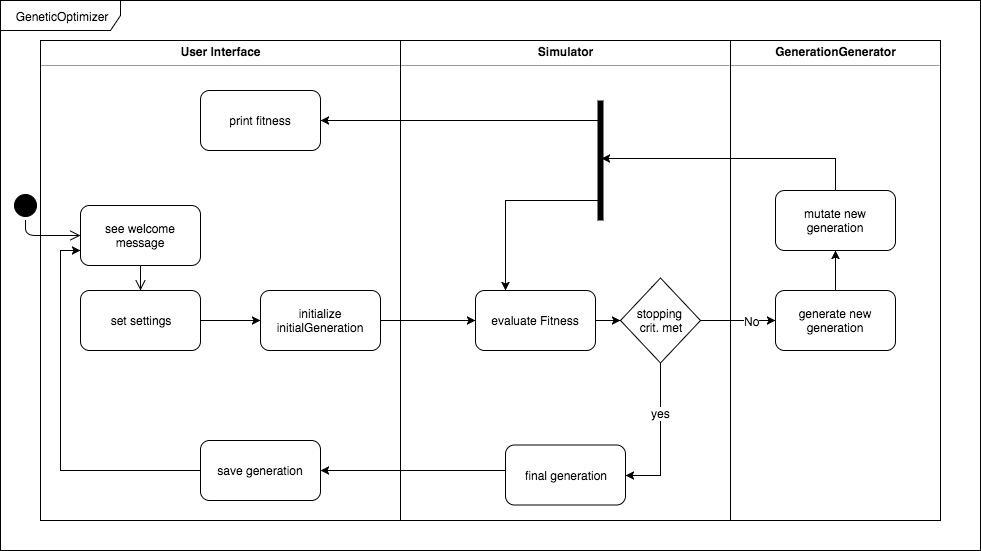
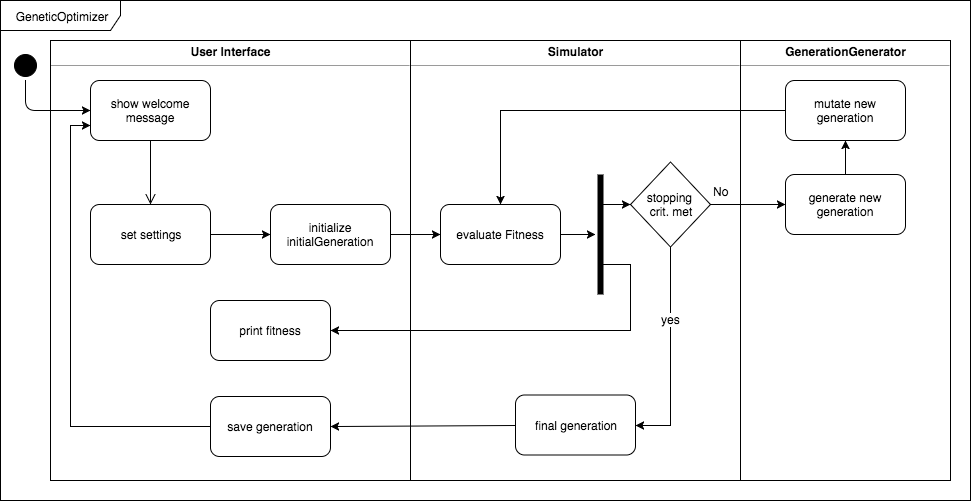
some architecture

diff --git a/report/softwareArchitecture/softwareArchitecture.tex b/report/softwareArchitecture/softwareArchitecture.tex
@@ -5,7 +5,11 @@
 3. Use your design methodology found in 1. to describe a SysML/UML model of your system in terms of structure and behavior. Make a suggestion for alternative HW/SW architectures. Decide on which parts of the functionality should be mapped to hardware components and software processes.
 \end{framed}
 
-The overall structure of the system can be seen in the BDD in figure \ref{fig:bdd}. Here it can be seen, that the system should consist of three parts: \emph{User Interface}, \emph{Generation Generator}, and \emph{Simulator}. Each of the blocks has its own responsibility. \emph{User Interface} is responsible for getting the input from and to the user, e.g. the start generation and the final generation and fitness. \emph{Generation Generator} is responsible for generating the new generation using the genetic algorithm. \emph{Simulator} is responsible for calculating the fintness, i.e. the Rosenbrock function.
+The overall structure of the system can be seen in the BDD in figure \ref{fig:bdd}. Here it can be seen, that the system should consist of three parts: \emph{User Interface}, \emph{Generation Generator}, and \emph{Simulator}. Each of the blocks has its own responsibility. 
+
+\emph{User Interface} is responsible for getting the input from and to the user, e.g. the start generation and the final generation and fitness. 
+
+\emph{Generation Generator} is responsible for generating the new generation using the genetic algorithm. \emph{Simulator} is responsible for calculating the fintness, i.e. the Rosenbrock function.
 
 \begin{figure}[htbp]
 \begin{centering}
@@ -15,8 +19,7 @@ The overall structure of the system can be seen in the BDD in figure \ref{fig:bd
 \end{centering}
 \end{figure}
 
-The internal connections can be seen in the IBD in figure \ref{fig:ibd}. Here it can be seen, that the 
-
+The internal connections can be seen in the IBD in figure \ref{fig:ibd}. The IBD shows a greater insight into which components are needed. It can be seen that \emph{GenerationGenerator} consists of two different parts, a generator and an interpreter of the random numbers. The point of the interpreter of the random numbers is, that it buffers the numbers such that there is always an amount of random numbers available.
 
 \begin{figure}[htbp]
 \begin{centering}
@@ -26,12 +29,37 @@ The internal connections can be seen in the IBD in figure \ref{fig:ibd}. Here it
 \end{centering}
 \end{figure}
 
+The behavior of the system can be shown by activity diagram. This can be seen in figure \ref{fig:activity}, where the different elements of the system is described. It shows, that the user starts by setting some parameters and then initializes the initial generation. Then the initial generation is evaluated. If the stopping criterions, which can be set by the user, is met the final generation is saved and then it starts over. If the stopping criterion is not met GenerationGenerator generates a new generation and mutates it, as described in section \ref{sec:theory}.For each generation the fitness is printed out for the user. Then the fitness is evaluated, seen if the stopping criterion is met, and so on until the stopping criterion is met.
 
+\begin{figure}[htbp]
+\begin{centering}
+\includegraphics[width=0.9\linewidth]{../diagrams/overallActivity.png}
+\caption{Activity diagram for the system.}
+\label{fig:activity}
+\end{centering}
+\end{figure}
 
-\footnote{\color{red}NOTE: waits in rosenbrock to reduce resources used}
+\subsection{Allocation}
+The system has a number of possible allocations. A possible allocation is shown in figure \ref{fig:allocation}, which shows an allocation of both GenerationGenerator and Simulator to hardware. The user interface should not be allocated to hardware.
 
+Other possible allocations are: \begin{itemize} 
+\item Both GenerationGenerator and Simulator to software (the ARM processor).
+\item GenerationGenerator to hardware (FPGA) and Simulator to software (the ARM processor).
+\item GenerationGenerator to software (the ARM processor) and Simulator to hardware (FPGA).
+\end{itemize}
+
+As stated earlier it is needed that the 
+
+\begin{figure}[htbp]
+\begin{centering}
+\includegraphics[width=0.9\linewidth]{../diagrams/allocation.png}
+\caption{Allocation diagram of a possible allocation of the system.}
+\label{fig:allocation}
+\end{centering}
+\end{figure}
 
 \subsection{Design}
+\footnote{\color{red}NOTE: waits in rosenbrock to reduce resources used}
 
 \begin{framed}
 4. Design the software and apply design patterns that are suitable for your project, and motivate the choice of the used patterns. Use the Two-Part Architecture Model if relevant for the problem. Use the abstract OS package for the ZYBO board

diff --git a/report/theory/theory.tex b/report/theory/theory.tex
@@ -1,4 +1,4 @@
-\section{Theory}
+\section{Theory}\label{sec:theory}
 
 This section will briefly explain the theory behind the genetic algorithm. It is defined as randomized, population based global search algorithm that tries to find global maximums or minimums of a certain function $f(x)$, in our case the Rosenbrock function: $$f(x,y) = (a-x)^2+b(y-x^2)^2$$, where $a$ and $b$ are parameters that define the function and $x$ and $y$ its coefficients. We start with an initial population $P(0)$ in which $x$ and $y$ are given as chromosomes (binary strings) of a certain size and evaluate the objective function (Rosenbrock) at points in $P(0)$ to get a fitness $F_{i}$ for each chromosome. The fitness represent a chromosome's score on the function, as a high value means we are close to either a global optimum or minimum. We save the fitness as the best-so-far chromosome and continue to create population $P_(1)$ from $P_(0)$ using the chromosomes with the best fitness so far, evaluate its fitness and so forth in an iterative manner. Given iteration $k=0$ and a initial population $P(0)$, the algorithm can be defined as\cite{Chong}:
 
@@ -9,7 +9,7 @@ This section will briefly explain the theory behind the genetic algorithm. It is
 	\item 4. Increase k by one and start over.
 \end{itemize}
 
-An interesting aspect is the crossover and mutation part, where we create new chromosomes (children) from binary strings (parents) with the best fitness of a population and mutate them afterwards. Figure \ref{fig:geneticalgocrossover} shows an example of a crossing, where the bit set of two parents are mixed at crossing sites to form two children. The crossing sites are chosen at random. Given two bit strings $0000$ and $11114$, the shown mutation would form two children $1100$ and $0011$. What follows is a mutation operation, where we flip bits in the children's bit string with a given probability $p_{m}$, usually a small value ($p_{m} < 0.01$), so only few chromosomes will be mutated. The idea behind these random crossings and mutations is that we seek a global maximum or minimum of our function $f(x)$ anywhere in the search space by avoiding getting stuck in local maximums or minimums, as is the case with gradient search methods. The particle swarm algorithm (PSO) shares similar attributes with genetic optimization.
+An interesting aspect is the crossover and mutation part, where we create new chromosomes (children) from binary strings (parents) with the best fitness of a population and mutate them afterwards. Figure \ref{fig:geneticalgocrossover} shows an example of a crossing, where the bit set of two parents are mixed at crossing sites to form two children. The crossing sites are chosen at random. Given two bit strings $0000$ and $1111{\color{red}4}$, the shown mutation would form two children $1100$ and $0011$. What follows is a mutation operation, where we flip bits in the children's bit string with a given probability $p_{m}$, usually a small value ($p_{m} < 0.01$), so only few chromosomes will be mutated. The idea behind these random crossings and mutations is that we seek a global maximum or minimum of our function $f(x)$ anywhere in the search space by avoiding getting stuck in local maximums or minimums, as is the case with gradient search methods. The particle swarm algorithm (PSO) shares similar attributes with genetic optimization.
 
 \begin{figure}[h]
 	\centering
